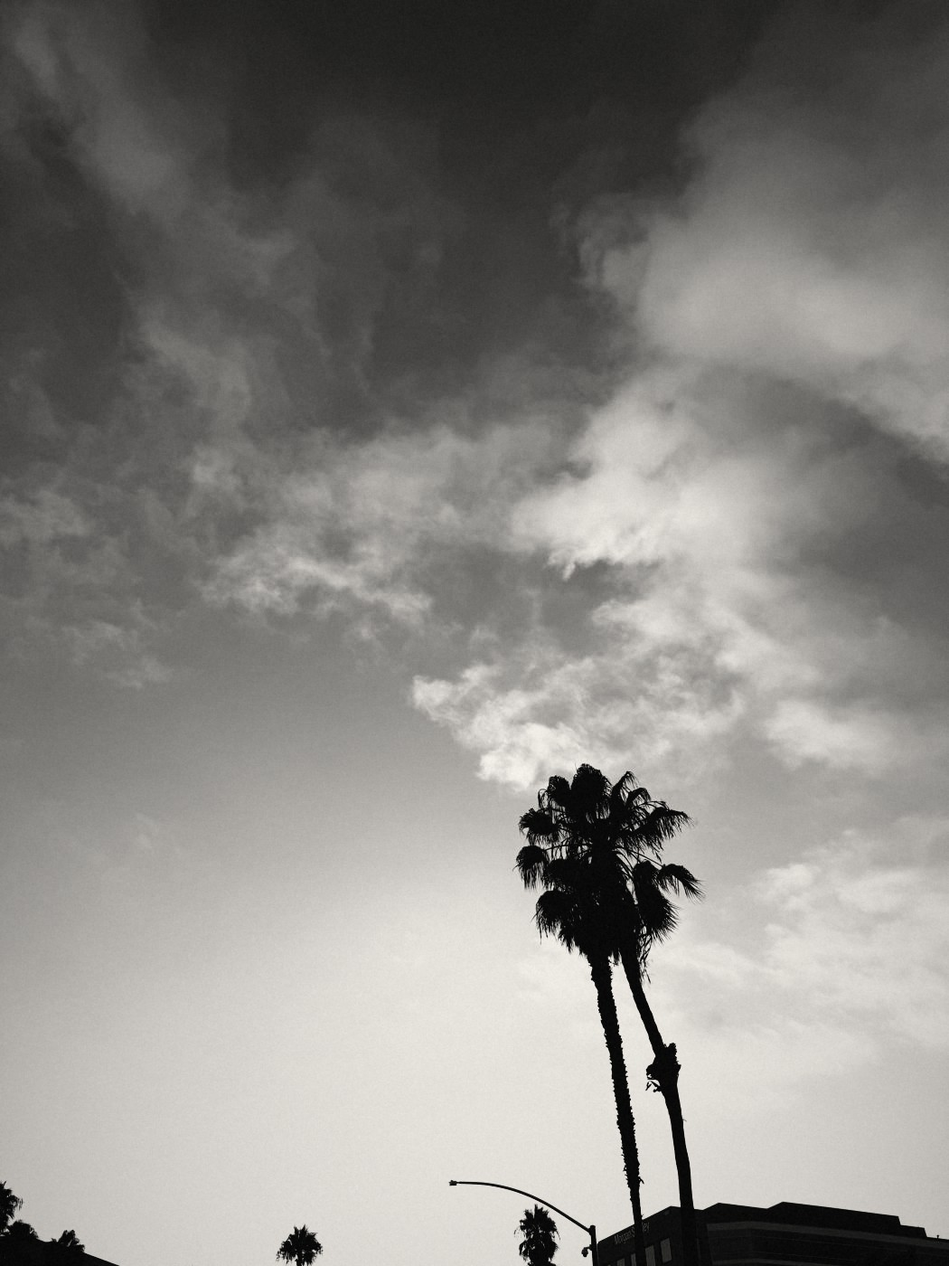
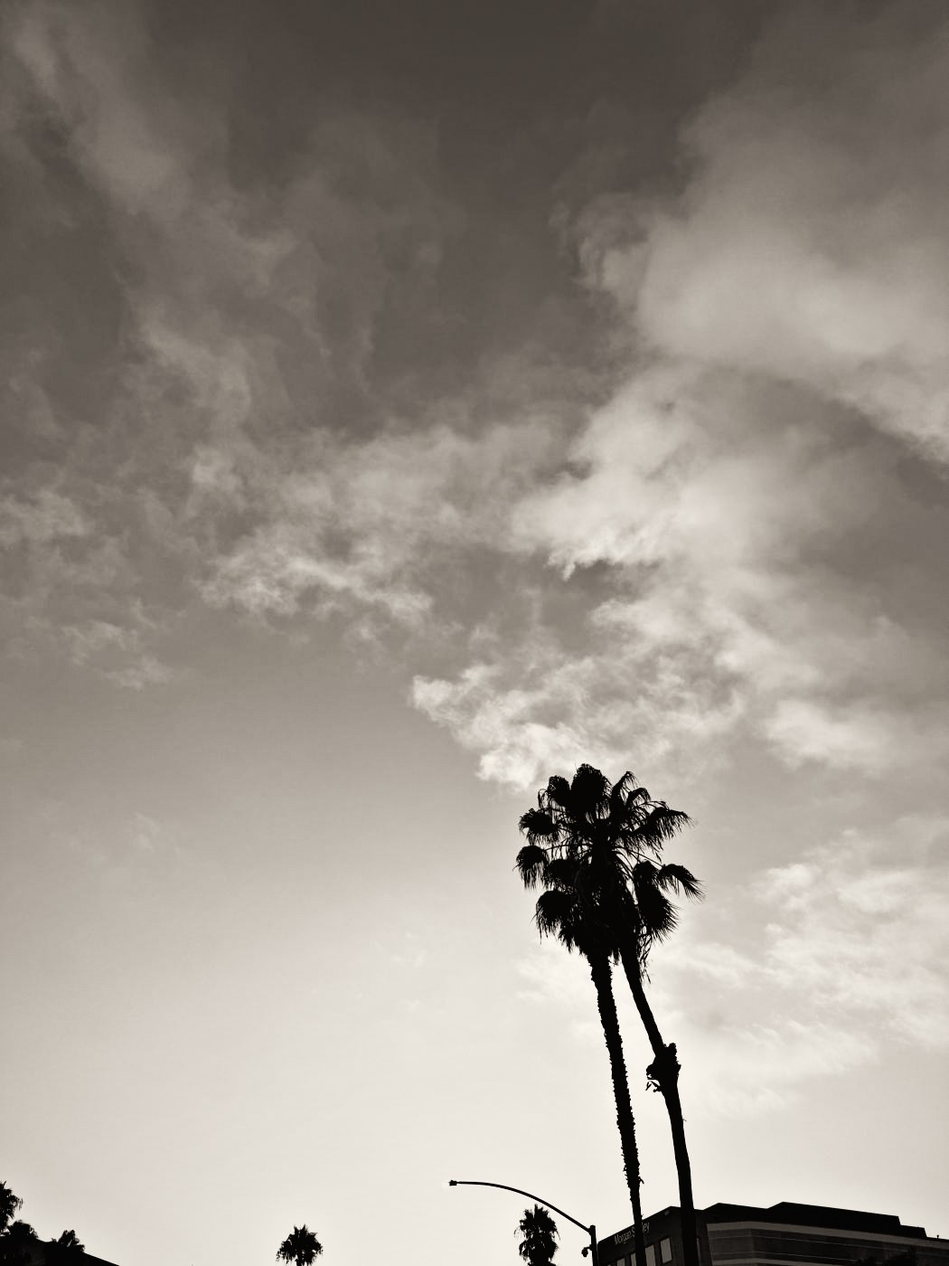
Lighter gallery look on every page; warm fine-art black and white photos
- Light theme for every visitor (Kimberly prefers the lighter version)
- Photography strip re-toned: warm split-tone, deep blacks, soft grain

Claude-Session: https://claude.ai/code/session_01VMdJp2ZW3GyGymVJUNs8Gi

diff --git a/collect.css b/collect.css
@@ -1,2 +1,2 @@
 @import url('https://fonts.googleapis.com/css2?family=Geist:wght@300;400;500;600&family=Instrument+Serif:ital@0;1&display=swap');
-:root{color-scheme:dark;--bg:#0a0a0c;--surface:#151519;--fg:#f3f1ee;--muted:#b2aeb8;--line:#313037;--accent:#f2c14e;font-family:Geist,Arial,sans-serif}*{box-sizing:border-box}body{margin:0;background:var(--bg);color:var(--fg);font-size:16px;line-height:1.6}a{color:inherit}img{display:block;width:100%;height:auto}.wrap{max-width:1200px;margin:auto;padding:0 28px}nav{display:flex;justify-content:space-between;gap:20px;align-items:center;padding:24px 0;border-bottom:1px solid var(--line)}nav .brand{text-decoration:none;font-weight:500}nav .links{display:flex;gap:22px;flex-wrap:wrap;font-size:14px}nav .links a{text-decoration:none;color:var(--muted)}h1,h2,h3,p{margin-top:0}h1{font-weight:400;letter-spacing:-.045em;line-height:1.04;font-size:clamp(40px,6.3vw,82px);margin-bottom:24px}h1 em,h2 em{font-family:'Instrument Serif',Georgia,serif;font-weight:400}h2{font-weight:400;letter-spacing:-.025em;font-size:clamp(32px,4vw,50px);line-height:1.1}h3{font-weight:500;line-height:1.2;font-size:24px;margin-bottom:10px}.eyebrow{text-transform:uppercase;letter-spacing:.14em;font-size:12px;color:var(--accent);margin-bottom:18px}.lede{font-size:19px;color:var(--muted);max-width:52ch}.actions{display:flex;flex-wrap:wrap;gap:12px;margin:28px 0}.btn{display:inline-flex;align-items:center;justify-content:center;padding:13px 20px;border:1px solid var(--line);border-radius:999px;text-decoration:none;font-weight:500;line-height:1.4}.btn.primary{background:var(--fg);color:var(--bg);border-color:var(--fg)}.btn:hover{border-color:var(--accent)}.hero{display:grid;grid-template-columns:1fr 1fr;gap:64px;align-items:center;padding:64px 0 60px}.hero .art{background:#202025;padding:22px;display:block}.hero .art img{max-height:640px;object-fit:contain}.hero small{display:block;color:var(--muted);margin-top:12px}.facts{display:flex;gap:20px;flex-wrap:wrap;border-top:1px solid var(--line);border-bottom:1px solid var(--line);padding:18px 0;font-size:14px;color:var(--muted)}section{padding:68px 0}.section-head{display:flex;justify-content:space-between;align-items:end;gap:24px;margin-bottom:28px}.section-head p{color:var(--muted);max-width:40ch;margin-bottom:0}.grid{display:grid;grid-template-columns:repeat(3,1fr);gap:28px}.card .image{display:block;background:var(--surface);padding:20px;margin-bottom:22px}.card img{height:340px;object-fit:contain}.card p{color:var(--muted);font-size:14px}.card .price{font-size:21px;color:var(--fg);margin-bottom:8px}.split{display:grid;grid-template-columns:1fr 1fr;gap:28px}.panel{border:1px solid var(--line);border-radius:18px;padding:32px;background:var(--surface)}.panel p{color:var(--muted)}.note{font-size:13px;color:var(--muted)}.product{display:grid;grid-template-columns:1.2fr 1fr;gap:64px;align-items:start;padding:54px 0}.product .image{background:var(--surface);padding:26px}.product .image img{max-height:760px;object-fit:contain}.product h1{font-size:clamp(40px,5vw,65px)}.product .price{font-size:30px;margin:20px 0 6px}.product dl{border-top:1px solid var(--line);padding-top:18px}.product dt{font-size:12px;text-transform:uppercase;letter-spacing:.1em;color:var(--muted)}.product dd{margin:0 0 14px}.product .description{color:var(--muted);font-size:18px}details{border-top:1px solid var(--line);padding:16px 0}summary{cursor:pointer;font-weight:500}details p{font-size:14px;color:var(--muted);margin:12px 0 0}footer{border-top:1px solid var(--line);padding:30px 0 44px;color:var(--muted);font-size:13px}footer p{margin:8px 0}footer a{margin-right:18px}:focus-visible{outline:2px solid var(--accent);outline-offset:5px}html{scroll-behavior:smooth}@media(max-width:760px){.wrap{padding:0 20px}nav{align-items:start}.links{justify-content:end}.hero,.product{grid-template-columns:1fr;gap:32px;padding:40px 0}.hero h1{max-width:16ch}.hero .art img{max-height:460px}.hero .art{padding:16px}.grid,.split{grid-template-columns:1fr}.card img{height:auto;max-height:490px}.section-head{display:block}.section-head p{margin-top:18px}.panel{padding:25px}section{padding:44px 0}.product .image{padding:20px}.product .image img{max-height:580px}.facts{gap:10px 20px}nav .links{gap:10px 16px}.hero .actions .btn{flex:1}.product .actions .btn{flex:1}}@media(prefers-reduced-motion:reduce){html{scroll-behavior:auto}}
+:root{color-scheme:light;--bg:#f6f4f1;--surface:#ffffff;--fg:#141317;--muted:#6c6a73;--line:#e3e0db;--accent:#b8860b;font-family:Geist,Arial,sans-serif}*{box-sizing:border-box}body{margin:0;background:var(--bg);color:var(--fg);font-size:16px;line-height:1.6}a{color:inherit}img{display:block;width:100%;height:auto}.wrap{max-width:1200px;margin:auto;padding:0 28px}nav{display:flex;justify-content:space-between;gap:20px;align-items:center;padding:24px 0;border-bottom:1px solid var(--line)}nav .brand{text-decoration:none;font-weight:500}nav .links{display:flex;gap:22px;flex-wrap:wrap;font-size:14px}nav .links a{text-decoration:none;color:var(--muted)}h1,h2,h3,p{margin-top:0}h1{font-weight:400;letter-spacing:-.045em;line-height:1.04;font-size:clamp(40px,6.3vw,82px);margin-bottom:24px}h1 em,h2 em{font-family:'Instrument Serif',Georgia,serif;font-weight:400}h2{font-weight:400;letter-spacing:-.025em;font-size:clamp(32px,4vw,50px);line-height:1.1}h3{font-weight:500;line-height:1.2;font-size:24px;margin-bottom:10px}.eyebrow{text-transform:uppercase;letter-spacing:.14em;font-size:12px;color:var(--accent);margin-bottom:18px}.lede{font-size:19px;color:var(--muted);max-width:52ch}.actions{display:flex;flex-wrap:wrap;gap:12px;margin:28px 0}.btn{display:inline-flex;align-items:center;justify-content:center;padding:13px 20px;border:1px solid var(--line);border-radius:999px;text-decoration:none;font-weight:500;line-height:1.4}.btn.primary{background:var(--fg);color:var(--bg);border-color:var(--fg)}.btn:hover{border-color:var(--accent)}.hero{display:grid;grid-template-columns:1fr 1fr;gap:64px;align-items:center;padding:64px 0 60px}.hero .art{background:#ebe7e1;padding:22px;display:block}.hero .art img{max-height:640px;object-fit:contain}.hero small{display:block;color:var(--muted);margin-top:12px}.facts{display:flex;gap:20px;flex-wrap:wrap;border-top:1px solid var(--line);border-bottom:1px solid var(--line);padding:18px 0;font-size:14px;color:var(--muted)}section{padding:68px 0}.section-head{display:flex;justify-content:space-between;align-items:end;gap:24px;margin-bottom:28px}.section-head p{color:var(--muted);max-width:40ch;margin-bottom:0}.grid{display:grid;grid-template-columns:repeat(3,1fr);gap:28px}.card .image{display:block;background:var(--surface);padding:20px;margin-bottom:22px}.card img{height:340px;object-fit:contain}.card p{color:var(--muted);font-size:14px}.card .price{font-size:21px;color:var(--fg);margin-bottom:8px}.split{display:grid;grid-template-columns:1fr 1fr;gap:28px}.panel{border:1px solid var(--line);border-radius:18px;padding:32px;background:var(--surface)}.panel p{color:var(--muted)}.note{font-size:13px;color:var(--muted)}.product{display:grid;grid-template-columns:1.2fr 1fr;gap:64px;align-items:start;padding:54px 0}.product .image{background:var(--surface);padding:26px}.product .image img{max-height:760px;object-fit:contain}.product h1{font-size:clamp(40px,5vw,65px)}.product .price{font-size:30px;margin:20px 0 6px}.product dl{border-top:1px solid var(--line);padding-top:18px}.product dt{font-size:12px;text-transform:uppercase;letter-spacing:.1em;color:var(--muted)}.product dd{margin:0 0 14px}.product .description{color:var(--muted);font-size:18px}details{border-top:1px solid var(--line);padding:16px 0}summary{cursor:pointer;font-weight:500}details p{font-size:14px;color:var(--muted);margin:12px 0 0}footer{border-top:1px solid var(--line);padding:30px 0 44px;color:var(--muted);font-size:13px}footer p{margin:8px 0}footer a{margin-right:18px}:focus-visible{outline:2px solid var(--accent);outline-offset:5px}html{scroll-behavior:smooth}@media(max-width:760px){.wrap{padding:0 20px}nav{align-items:start}.links{justify-content:end}.hero,.product{grid-template-columns:1fr;gap:32px;padding:40px 0}.hero h1{max-width:16ch}.hero .art img{max-height:460px}.hero .art{padding:16px}.grid,.split{grid-template-columns:1fr}.card img{height:auto;max-height:490px}.section-head{display:block}.section-head p{margin-top:18px}.panel{padding:25px}section{padding:44px 0}.product .image{padding:20px}.product .image img{max-height:580px}.facts{gap:10px 20px}nav .links{gap:10px 16px}.hero .actions .btn{flex:1}.product .actions .btn{flex:1}}@media(prefers-reduced-motion:reduce){html{scroll-behavior:auto}}

diff --git a/dist/collect.css b/dist/collect.css
@@ -1,2 +1,2 @@
 @import url('https://fonts.googleapis.com/css2?family=Geist:wght@300;400;500;600&family=Instrument+Serif:ital@0;1&display=swap');
-:root{color-scheme:dark;--bg:#0a0a0c;--surface:#151519;--fg:#f3f1ee;--muted:#b2aeb8;--line:#313037;--accent:#f2c14e;font-family:Geist,Arial,sans-serif}*{box-sizing:border-box}body{margin:0;background:var(--bg);color:var(--fg);font-size:16px;line-height:1.6}a{color:inherit}img{display:block;width:100%;height:auto}.wrap{max-width:1200px;margin:auto;padding:0 28px}nav{display:flex;justify-content:space-between;gap:20px;align-items:center;padding:24px 0;border-bottom:1px solid var(--line)}nav .brand{text-decoration:none;font-weight:500}nav .links{display:flex;gap:22px;flex-wrap:wrap;font-size:14px}nav .links a{text-decoration:none;color:var(--muted)}h1,h2,h3,p{margin-top:0}h1{font-weight:400;letter-spacing:-.045em;line-height:1.04;font-size:clamp(40px,6.3vw,82px);margin-bottom:24px}h1 em,h2 em{font-family:'Instrument Serif',Georgia,serif;font-weight:400}h2{font-weight:400;letter-spacing:-.025em;font-size:clamp(32px,4vw,50px);line-height:1.1}h3{font-weight:500;line-height:1.2;font-size:24px;margin-bottom:10px}.eyebrow{text-transform:uppercase;letter-spacing:.14em;font-size:12px;color:var(--accent);margin-bottom:18px}.lede{font-size:19px;color:var(--muted);max-width:52ch}.actions{display:flex;flex-wrap:wrap;gap:12px;margin:28px 0}.btn{display:inline-flex;align-items:center;justify-content:center;padding:13px 20px;border:1px solid var(--line);border-radius:999px;text-decoration:none;font-weight:500;line-height:1.4}.btn.primary{background:var(--fg);color:var(--bg);border-color:var(--fg)}.btn:hover{border-color:var(--accent)}.hero{display:grid;grid-template-columns:1fr 1fr;gap:64px;align-items:center;padding:64px 0 60px}.hero .art{background:#202025;padding:22px;display:block}.hero .art img{max-height:640px;object-fit:contain}.hero small{display:block;color:var(--muted);margin-top:12px}.facts{display:flex;gap:20px;flex-wrap:wrap;border-top:1px solid var(--line);border-bottom:1px solid var(--line);padding:18px 0;font-size:14px;color:var(--muted)}section{padding:68px 0}.section-head{display:flex;justify-content:space-between;align-items:end;gap:24px;margin-bottom:28px}.section-head p{color:var(--muted);max-width:40ch;margin-bottom:0}.grid{display:grid;grid-template-columns:repeat(3,1fr);gap:28px}.card .image{display:block;background:var(--surface);padding:20px;margin-bottom:22px}.card img{height:340px;object-fit:contain}.card p{color:var(--muted);font-size:14px}.card .price{font-size:21px;color:var(--fg);margin-bottom:8px}.split{display:grid;grid-template-columns:1fr 1fr;gap:28px}.panel{border:1px solid var(--line);border-radius:18px;padding:32px;background:var(--surface)}.panel p{color:var(--muted)}.note{font-size:13px;color:var(--muted)}.product{display:grid;grid-template-columns:1.2fr 1fr;gap:64px;align-items:start;padding:54px 0}.product .image{background:var(--surface);padding:26px}.product .image img{max-height:760px;object-fit:contain}.product h1{font-size:clamp(40px,5vw,65px)}.product .price{font-size:30px;margin:20px 0 6px}.product dl{border-top:1px solid var(--line);padding-top:18px}.product dt{font-size:12px;text-transform:uppercase;letter-spacing:.1em;color:var(--muted)}.product dd{margin:0 0 14px}.product .description{color:var(--muted);font-size:18px}details{border-top:1px solid var(--line);padding:16px 0}summary{cursor:pointer;font-weight:500}details p{font-size:14px;color:var(--muted);margin:12px 0 0}footer{border-top:1px solid var(--line);padding:30px 0 44px;color:var(--muted);font-size:13px}footer p{margin:8px 0}footer a{margin-right:18px}:focus-visible{outline:2px solid var(--accent);outline-offset:5px}html{scroll-behavior:smooth}@media(max-width:760px){.wrap{padding:0 20px}nav{align-items:start}.links{justify-content:end}.hero,.product{grid-template-columns:1fr;gap:32px;padding:40px 0}.hero h1{max-width:16ch}.hero .art img{max-height:460px}.hero .art{padding:16px}.grid,.split{grid-template-columns:1fr}.card img{height:auto;max-height:490px}.section-head{display:block}.section-head p{margin-top:18px}.panel{padding:25px}section{padding:44px 0}.product .image{padding:20px}.product .image img{max-height:580px}.facts{gap:10px 20px}nav .links{gap:10px 16px}.hero .actions .btn{flex:1}.product .actions .btn{flex:1}}@media(prefers-reduced-motion:reduce){html{scroll-behavior:auto}}
+:root{color-scheme:light;--bg:#f6f4f1;--surface:#ffffff;--fg:#141317;--muted:#6c6a73;--line:#e3e0db;--accent:#b8860b;font-family:Geist,Arial,sans-serif}*{box-sizing:border-box}body{margin:0;background:var(--bg);color:var(--fg);font-size:16px;line-height:1.6}a{color:inherit}img{display:block;width:100%;height:auto}.wrap{max-width:1200px;margin:auto;padding:0 28px}nav{display:flex;justify-content:space-between;gap:20px;align-items:center;padding:24px 0;border-bottom:1px solid var(--line)}nav .brand{text-decoration:none;font-weight:500}nav .links{display:flex;gap:22px;flex-wrap:wrap;font-size:14px}nav .links a{text-decoration:none;color:var(--muted)}h1,h2,h3,p{margin-top:0}h1{font-weight:400;letter-spacing:-.045em;line-height:1.04;font-size:clamp(40px,6.3vw,82px);margin-bottom:24px}h1 em,h2 em{font-family:'Instrument Serif',Georgia,serif;font-weight:400}h2{font-weight:400;letter-spacing:-.025em;font-size:clamp(32px,4vw,50px);line-height:1.1}h3{font-weight:500;line-height:1.2;font-size:24px;margin-bottom:10px}.eyebrow{text-transform:uppercase;letter-spacing:.14em;font-size:12px;color:var(--accent);margin-bottom:18px}.lede{font-size:19px;color:var(--muted);max-width:52ch}.actions{display:flex;flex-wrap:wrap;gap:12px;margin:28px 0}.btn{display:inline-flex;align-items:center;justify-content:center;padding:13px 20px;border:1px solid var(--line);border-radius:999px;text-decoration:none;font-weight:500;line-height:1.4}.btn.primary{background:var(--fg);color:var(--bg);border-color:var(--fg)}.btn:hover{border-color:var(--accent)}.hero{display:grid;grid-template-columns:1fr 1fr;gap:64px;align-items:center;padding:64px 0 60px}.hero .art{background:#ebe7e1;padding:22px;display:block}.hero .art img{max-height:640px;object-fit:contain}.hero small{display:block;color:var(--muted);margin-top:12px}.facts{display:flex;gap:20px;flex-wrap:wrap;border-top:1px solid var(--line);border-bottom:1px solid var(--line);padding:18px 0;font-size:14px;color:var(--muted)}section{padding:68px 0}.section-head{display:flex;justify-content:space-between;align-items:end;gap:24px;margin-bottom:28px}.section-head p{color:var(--muted);max-width:40ch;margin-bottom:0}.grid{display:grid;grid-template-columns:repeat(3,1fr);gap:28px}.card .image{display:block;background:var(--surface);padding:20px;margin-bottom:22px}.card img{height:340px;object-fit:contain}.card p{color:var(--muted);font-size:14px}.card .price{font-size:21px;color:var(--fg);margin-bottom:8px}.split{display:grid;grid-template-columns:1fr 1fr;gap:28px}.panel{border:1px solid var(--line);border-radius:18px;padding:32px;background:var(--surface)}.panel p{color:var(--muted)}.note{font-size:13px;color:var(--muted)}.product{display:grid;grid-template-columns:1.2fr 1fr;gap:64px;align-items:start;padding:54px 0}.product .image{background:var(--surface);padding:26px}.product .image img{max-height:760px;object-fit:contain}.product h1{font-size:clamp(40px,5vw,65px)}.product .price{font-size:30px;margin:20px 0 6px}.product dl{border-top:1px solid var(--line);padding-top:18px}.product dt{font-size:12px;text-transform:uppercase;letter-spacing:.1em;color:var(--muted)}.product dd{margin:0 0 14px}.product .description{color:var(--muted);font-size:18px}details{border-top:1px solid var(--line);padding:16px 0}summary{cursor:pointer;font-weight:500}details p{font-size:14px;color:var(--muted);margin:12px 0 0}footer{border-top:1px solid var(--line);padding:30px 0 44px;color:var(--muted);font-size:13px}footer p{margin:8px 0}footer a{margin-right:18px}:focus-visible{outline:2px solid var(--accent);outline-offset:5px}html{scroll-behavior:smooth}@media(max-width:760px){.wrap{padding:0 20px}nav{align-items:start}.links{justify-content:end}.hero,.product{grid-template-columns:1fr;gap:32px;padding:40px 0}.hero h1{max-width:16ch}.hero .art img{max-height:460px}.hero .art{padding:16px}.grid,.split{grid-template-columns:1fr}.card img{height:auto;max-height:490px}.section-head{display:block}.section-head p{margin-top:18px}.panel{padding:25px}section{padding:44px 0}.product .image{padding:20px}.product .image img{max-height:580px}.facts{gap:10px 20px}nav .links{gap:10px 16px}.hero .actions .btn{flex:1}.product .actions .btn{flex:1}}@media(prefers-reduced-motion:reduce){html{scroll-behavior:auto}}

diff --git a/dist/plan.html b/dist/plan.html
@@ -16,7 +16,7 @@ button.btn{background:transparent;color:var(--fg);font:inherit;cursor:pointer}bu
 .card2 h2{font-size:clamp(28px,3.2vw,40px);margin:0}
 .card2 .sub{color:var(--muted);margin:0}
 .pick{display:grid;grid-template-columns:120px 1fr;gap:20px;align-items:center}
-.pick img{background:#202025;padding:8px;max-height:150px;object-fit:contain}
+.pick img{background:#ebe7e1;padding:8px;max-height:150px;object-fit:contain}
 .sched{list-style:none;margin:0;padding:0;display:grid;gap:10px}
 .sched li{display:grid;grid-template-columns:auto 1fr auto;gap:14px;align-items:center;border:1px solid var(--line);border-radius:14px;padding:14px 16px}
 .sched .n{width:30px;height:30px;border-radius:50%;display:grid;place-items:center;border:1px solid var(--accent);color:var(--accent);font-size:14px}
@@ -31,12 +31,12 @@ button.btn{background:transparent;color:var(--fg);font:inherit;cursor:pointer}bu
 .choice input:focus-visible+label{outline:2px solid var(--accent);outline-offset:2px}
 .field{display:grid;gap:6px}.field label{font-size:14px}
 .field input,.field select{font:inherit;color:var(--fg);background:var(--bg);border:1px solid var(--line);border-radius:10px;padding:12px 14px}
-.field input[aria-invalid=true]{border-color:#ff6a4d}
+.field input[aria-invalid=true]{border-color:#c2410c}
 .row2{display:grid;grid-template-columns:1fr 1fr;gap:14px}
 .row3{display:grid;grid-template-columns:2fr 1fr 1fr;gap:14px}
 .navb{display:flex;justify-content:space-between;gap:12px;margin-top:6px}
 .navb .btn{flex:0 0 auto}
-.err{color:#ff8a70;font-size:14px;margin:0}
+.err{color:#b3401f;font-size:14px;margin:0}
 .terms{list-style:none;padding:0;margin:0;display:grid;gap:10px;color:var(--muted);font-size:15px}
 .terms li{padding-left:24px;position:relative}.terms li:before{content:"✓";position:absolute;left:0;color:var(--accent)}
 .check{display:flex;gap:12px;align-items:flex-start;font-size:15px}

diff --git a/plan.html b/plan.html
@@ -16,7 +16,7 @@ button.btn{background:transparent;color:var(--fg);font:inherit;cursor:pointer}bu
 .card2 h2{font-size:clamp(28px,3.2vw,40px);margin:0}
 .card2 .sub{color:var(--muted);margin:0}
 .pick{display:grid;grid-template-columns:120px 1fr;gap:20px;align-items:center}
-.pick img{background:#202025;padding:8px;max-height:150px;object-fit:contain}
+.pick img{background:#ebe7e1;padding:8px;max-height:150px;object-fit:contain}
 .sched{list-style:none;margin:0;padding:0;display:grid;gap:10px}
 .sched li{display:grid;grid-template-columns:auto 1fr auto;gap:14px;align-items:center;border:1px solid var(--line);border-radius:14px;padding:14px 16px}
 .sched .n{width:30px;height:30px;border-radius:50%;display:grid;place-items:center;border:1px solid var(--accent);color:var(--accent);font-size:14px}
@@ -31,12 +31,12 @@ button.btn{background:transparent;color:var(--fg);font:inherit;cursor:pointer}bu
 .choice input:focus-visible+label{outline:2px solid var(--accent);outline-offset:2px}
 .field{display:grid;gap:6px}.field label{font-size:14px}
 .field input,.field select{font:inherit;color:var(--fg);background:var(--bg);border:1px solid var(--line);border-radius:10px;padding:12px 14px}
-.field input[aria-invalid=true]{border-color:#ff6a4d}
+.field input[aria-invalid=true]{border-color:#c2410c}
 .row2{display:grid;grid-template-columns:1fr 1fr;gap:14px}
 .row3{display:grid;grid-template-columns:2fr 1fr 1fr;gap:14px}
 .navb{display:flex;justify-content:space-between;gap:12px;margin-top:6px}
 .navb .btn{flex:0 0 auto}
-.err{color:#ff8a70;font-size:14px;margin:0}
+.err{color:#b3401f;font-size:14px;margin:0}
 .terms{list-style:none;padding:0;margin:0;display:grid;gap:10px;color:var(--muted);font-size:15px}
 .terms li{padding-left:24px;position:relative}.terms li:before{content:"✓";position:absolute;left:0;color:var(--accent)}
 .check{display:flex;gap:12px;align-items:flex-start;font-size:15px}

diff --git a/commission.html b/commission.html
@@ -17,7 +17,7 @@
   --display:"Geist","Helvetica Neue",Arial,sans-serif; --serif:"Instrument Serif","Iowan Old Style",Georgia,serif;
   --radius:18px; color-scheme:dark;
 }
-@media not all{ /* dark gallery look for every visitor (Kimberly 11/13) */:root:not([data-theme="dark"]){
+@media all{ /* light gallery look for every visitor (Kimberly 11/13, she prefers the lighter version) */:root:not([data-theme="dark"]){
   --bg:#f6f4f1; --surface:#ffffff; --surface2:#f0ede8; --line:#e3e0db; --fg:#141317; --muted:#6c6a73; --glow-a:#6c5cff; --glow-b:#ff6a4d; --accent:#a8780a; --ok:#1f8a3b; --warn:#b5650d; color-scheme:light}}
 :root[data-theme="light"]{--bg:#f6f4f1; --surface:#ffffff; --surface2:#f0ede8; --line:#e3e0db; --fg:#141317; --muted:#6c6a73; --glow-a:#6c5cff; --glow-b:#ff6a4d; --accent:#a8780a; --ok:#1f8a3b; --warn:#b5650d; color-scheme:light}
 *{box-sizing:border-box}

diff --git a/designers.html b/designers.html
@@ -11,7 +11,7 @@
   --display:"Geist","Helvetica Neue",Arial,sans-serif; --serif:"Instrument Serif","Iowan Old Style",Georgia,serif;
   --radius:18px; color-scheme:dark;
 }
-@media not all{ /* dark gallery look for every visitor (Kimberly 11/13) */:root:not([data-theme="dark"]){
+@media all{ /* light gallery look for every visitor (Kimberly 11/13, she prefers the lighter version) */:root:not([data-theme="dark"]){
   --bg:#f6f4f1; --surface:#ffffff; --surface2:#f0ede8; --line:#e3e0db; --fg:#141317; --muted:#6c6a73; --glow-a:#6c5cff; --glow-b:#ff6a4d; --accent:#a8780a; --ok:#1f8a3b; --warn:#b5650d; color-scheme:light}}
 :root[data-theme="light"]{--bg:#f6f4f1; --surface:#ffffff; --surface2:#f0ede8; --line:#e3e0db; --fg:#141317; --muted:#6c6a73; --glow-a:#6c5cff; --glow-b:#ff6a4d; --accent:#a8780a; --ok:#1f8a3b; --warn:#b5650d; color-scheme:light}
 *{box-sizing:border-box}

diff --git a/dist/commission.html b/dist/commission.html
@@ -17,7 +17,7 @@
   --display:"Geist","Helvetica Neue",Arial,sans-serif; --serif:"Instrument Serif","Iowan Old Style",Georgia,serif;
   --radius:18px; color-scheme:dark;
 }
-@media not all{ /* dark gallery look for every visitor (Kimberly 11/13) */:root:not([data-theme="dark"]){
+@media all{ /* light gallery look for every visitor (Kimberly 11/13, she prefers the lighter version) */:root:not([data-theme="dark"]){
   --bg:#f6f4f1; --surface:#ffffff; --surface2:#f0ede8; --line:#e3e0db; --fg:#141317; --muted:#6c6a73; --glow-a:#6c5cff; --glow-b:#ff6a4d; --accent:#a8780a; --ok:#1f8a3b; --warn:#b5650d; color-scheme:light}}
 :root[data-theme="light"]{--bg:#f6f4f1; --surface:#ffffff; --surface2:#f0ede8; --line:#e3e0db; --fg:#141317; --muted:#6c6a73; --glow-a:#6c5cff; --glow-b:#ff6a4d; --accent:#a8780a; --ok:#1f8a3b; --warn:#b5650d; color-scheme:light}
 *{box-sizing:border-box}

diff --git a/dist/designers.html b/dist/designers.html
@@ -11,7 +11,7 @@
   --display:"Geist","Helvetica Neue",Arial,sans-serif; --serif:"Instrument Serif","Iowan Old Style",Georgia,serif;
   --radius:18px; color-scheme:dark;
 }
-@media not all{ /* dark gallery look for every visitor (Kimberly 11/13) */:root:not([data-theme="dark"]){
+@media all{ /* light gallery look for every visitor (Kimberly 11/13, she prefers the lighter version) */:root:not([data-theme="dark"]){
   --bg:#f6f4f1; --surface:#ffffff; --surface2:#f0ede8; --line:#e3e0db; --fg:#141317; --muted:#6c6a73; --glow-a:#6c5cff; --glow-b:#ff6a4d; --accent:#a8780a; --ok:#1f8a3b; --warn:#b5650d; color-scheme:light}}
 :root[data-theme="light"]{--bg:#f6f4f1; --surface:#ffffff; --surface2:#f0ede8; --line:#e3e0db; --fg:#141317; --muted:#6c6a73; --glow-a:#6c5cff; --glow-b:#ff6a4d; --accent:#a8780a; --ok:#1f8a3b; --warn:#b5650d; color-scheme:light}
 *{box-sizing:border-box}

diff --git a/dist/journal-charcoal-my-body-and-comfy.html b/dist/journal-charcoal-my-body-and-comfy.html
@@ -10,11 +10,11 @@
 <link rel="stylesheet" href="https://fonts.googleapis.com/css2?family=Geist:wght@300;400;500;600&family=Instrument+Serif:ital@0;1&display=swap">
 <style>
 :root{
-  --bg:#0a0a0c; --surface:#151519; --line:#313037; --fg:#f3f1ee; --muted:#b2aeb8;
-  --glow-a:#3b1fd1; --glow-b:#d9361e; --accent:#f2c14e;
+  --bg:#f6f4f1; --surface:#ffffff; --line:#e3e0db; --fg:#141317; --muted:#6c6a73;
+  --glow-a:#6c5cff; --glow-b:#ff6a4d; --accent:#b8860b;
   --display:"Geist","Helvetica Neue",Arial,sans-serif;
   --serif:"Instrument Serif","Iowan Old Style",Georgia,serif;
-  --radius:18px; color-scheme:dark;
+  --radius:18px; color-scheme:light;
 }
 *{box-sizing:border-box}
 body{background:var(--bg);color:var(--fg);font-family:var(--display);font-size:17px;line-height:1.65;-webkit-font-smoothing:antialiased;overflow-x:hidden}

diff --git a/dist/journal-choosing-original-art-for-your-home.html b/dist/journal-choosing-original-art-for-your-home.html
@@ -10,11 +10,11 @@
 <link rel="stylesheet" href="https://fonts.googleapis.com/css2?family=Geist:wght@300;400;500;600&family=Instrument+Serif:ital@0;1&display=swap">
 <style>
 :root{
-  --bg:#0a0a0c; --surface:#151519; --line:#313037; --fg:#f3f1ee; --muted:#b2aeb8;
-  --glow-a:#3b1fd1; --glow-b:#d9361e; --accent:#f2c14e;
+  --bg:#f6f4f1; --surface:#ffffff; --line:#e3e0db; --fg:#141317; --muted:#6c6a73;
+  --glow-a:#6c5cff; --glow-b:#ff6a4d; --accent:#b8860b;
   --display:"Geist","Helvetica Neue",Arial,sans-serif;
   --serif:"Instrument Serif","Iowan Old Style",Georgia,serif;
-  --radius:18px; color-scheme:dark;
+  --radius:18px; color-scheme:light;
 }
 *{box-sizing:border-box}
 body{background:var(--bg);color:var(--fg);font-family:var(--display);font-size:17px;line-height:1.65;-webkit-font-smoothing:antialiased;overflow-x:hidden}

diff --git a/dist/journal-designer-interiors-styling-original-art.html b/dist/journal-designer-interiors-styling-original-art.html
@@ -10,11 +10,11 @@
 <link rel="stylesheet" href="https://fonts.googleapis.com/css2?family=Geist:wght@300;400;500;600&family=Instrument+Serif:ital@0;1&display=swap">
 <style>
 :root{
-  --bg:#0a0a0c; --surface:#151519; --line:#313037; --fg:#f3f1ee; --muted:#b2aeb8;
-  --glow-a:#3b1fd1; --glow-b:#d9361e; --accent:#f2c14e;
+  --bg:#f6f4f1; --surface:#ffffff; --line:#e3e0db; --fg:#141317; --muted:#6c6a73;
+  --glow-a:#6c5cff; --glow-b:#ff6a4d; --accent:#b8860b;
   --display:"Geist","Helvetica Neue",Arial,sans-serif;
   --serif:"Instrument Serif","Iowan Old Style",Georgia,serif;
-  --radius:18px; color-scheme:dark;
+  --radius:18px; color-scheme:light;
 }
 *{box-sizing:border-box}
 body{background:var(--bg);color:var(--fg);font-family:var(--display);font-size:17px;line-height:1.65;-webkit-font-smoothing:antialiased;overflow-x:hidden}

diff --git a/dist/journal-holiday-portrait-commissions.html b/dist/journal-holiday-portrait-commissions.html
@@ -10,11 +10,11 @@
 <link rel="stylesheet" href="https://fonts.googleapis.com/css2?family=Geist:wght@300;400;500;600&family=Instrument+Serif:ital@0;1&display=swap">
 <style>
 :root{
-  --bg:#0a0a0c; --surface:#151519; --line:#313037; --fg:#f3f1ee; --muted:#b2aeb8;
-  --glow-a:#3b1fd1; --glow-b:#d9361e; --accent:#f2c14e;
+  --bg:#f6f4f1; --surface:#ffffff; --line:#e3e0db; --fg:#141317; --muted:#6c6a73;
+  --glow-a:#6c5cff; --glow-b:#ff6a4d; --accent:#b8860b;
   --display:"Geist","Helvetica Neue",Arial,sans-serif;
   --serif:"Instrument Serif","Iowan Old Style",Georgia,serif;
-  --radius:18px; color-scheme:dark;
+  --radius:18px; color-scheme:light;
 }
 *{box-sizing:border-box}
 body{background:var(--bg);color:var(--fg);font-family:var(--display);font-size:17px;line-height:1.65;-webkit-font-smoothing:antialiased;overflow-x:hidden}
